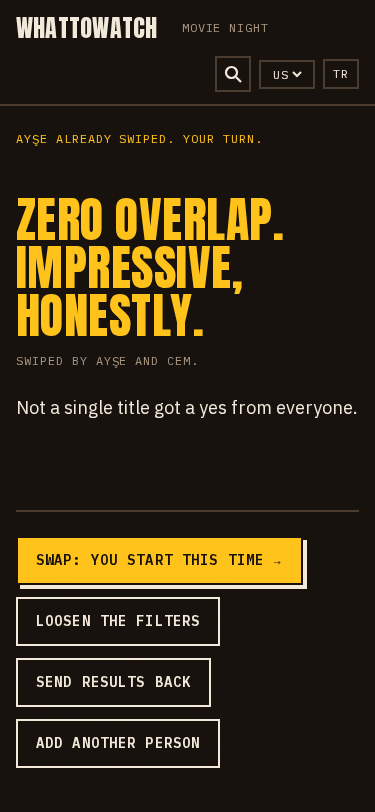
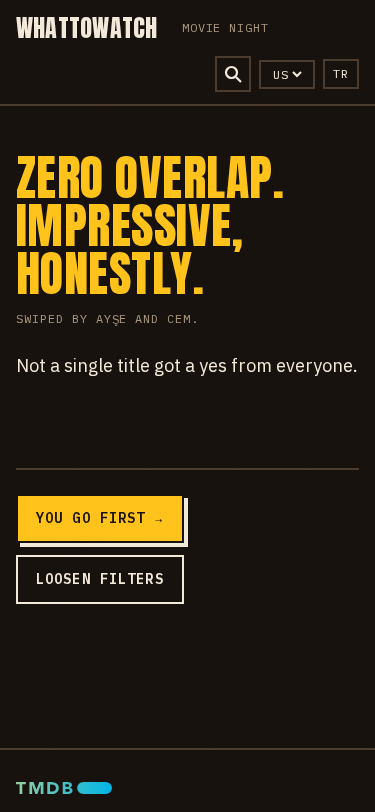
feat: series results and cards on every surface; e2e (g)-(k) and screenshots
Claude-Session: https://claude.ai/code/session_019AAVV8Zh78HYRk7xXT2hzQ

diff --git a/e2e/series.spec.ts b/e2e/series.spec.ts
@@ -1,0 +1,77 @@
+import { expect, test, type Browser } from "@playwright/test";
+import { finalSwipe, person, sitDown, swipe, topCard } from "./helpers";
+
+const BASE = process.env.E2E_BASE_URL ?? "http://localhost:3024";
+
+async function turkish(browser: Browser) {
+  const ctx = await browser.newContext({ locale: "tr-TR" });
+  await ctx.addCookies([{ name: "wtw_lang", value: "tr", url: BASE }, { name: "wtw_region", value: "TR", url: BASE }]);
+  return ctx.newPage();
+}
+
+test("(g) search \"shrek\": one Shrek series card, no separate Shrek 2 or 3", async ({ browser }) => {
+  const p = await person(browser);
+  await p.goto("/search?q=shrek");
+  const grid = p.getByTestId("results-grid");
+  await expect(grid.locator('[data-collection="2150"]')).toHaveCount(1);
+  await expect(grid.locator('[data-collection="2150"]')).toContainText(/\d films · 2001–20\d\d/i);
+  for (const id of [808, 809, 810, 10192]) await expect(grid.locator(`a[href="/title/movie/${id}"]`)).toHaveCount(0);
+});
+
+test("(h) TR, \"yüzüklerin efendisi\": the series card comes first", async ({ browser }) => {
+  const p = await turkish(browser);
+  await p.goto("/search?q=y%C3%BCz%C3%BCklerin%20efendisi");
+  const first = p.getByTestId("search-result").first();
+  await expect(first.getByTestId("collection-card")).toHaveAttribute("data-collection", "119");
+  await expect(first).toContainText(/3 film · 2001–2003/i);
+});
+
+test("(i) two parts on the first page become one card, and never come back later in the deck", async ({ browser }) => {
+  // Fresh link: movies, fantasy, US, seed "abc". Page 0 of this deck holds several Harry Potter films.
+  const token = "AwAAAFVTAAABDANhYmMAAA";
+  const page0 = await (await fetch(`${BASE}/match/api/tmdb/deck?kind=movie&genres=fantasy&region=US&seed=abc&page=0&lang=en`)).json() as { cards: { key: string; title: string; collection?: { parts: { title: string }[] } }[] };
+  const series = page0.cards.filter((c) => c.collection);
+  expect(series.length).toBeGreaterThan(0);
+  const parts = series.flatMap((s) => s.collection!.parts.map((p) => p.title));
+
+  const a = await person(browser);
+  await a.goto(`/match/link?d=${token}`);
+  await sitDown(a, "Ayşe");
+  const seen: string[] = [];
+  for (let n = 0; n < 29; n++) {
+    const title = await topCard(a);
+    if (series.some((s) => s.title === title)) {
+      await a.getByRole("group").first().click(); // tap: what's in the box
+      await expect(a.getByTestId("series-back")).toBeVisible();
+      await expect(a.getByTestId("series-back").locator("li")).toHaveCount(series.find((s) => s.title === title)!.collection!.parts.length);
+      await a.getByRole("group").first().click();
+    }
+    seen.push(await swipe(a, "ArrowLeft"));
+  }
+  seen.push(await finalSwipe(a, "ArrowLeft"));
+  for (const s of series) expect(seen.filter((t) => t === s.title)).toHaveLength(1);
+  for (const part of parts) expect(seen).not.toContain(part);
+  await expect(a.getByText("Not one yes. Tough crowd.")).toBeVisible();
+});
+
+test("(j) a v2 link from before series still opens to its results", async ({ browser }) => {
+  // Encoded by the v2 writer: a finished results link, Ayşe and Burak both liked Forrest Gump (m13) and The Shawshank Redemption (m278).
+  const v2 = "AgEAAFVTAAAACGUyZXYyb2xkCpgR1AG3EuwUsxCozQbM4h-HrCafAegFAgVBecWfZZZqCgVCdXJha1pqCg";
+  const p = await person(browser);
+  await p.goto(`/match/link?d=${v2}`);
+  await expect(p.getByRole("heading", { name: "You both said yes to these." })).toBeVisible();
+  const results = p.getByTestId("result");
+  await expect(results).toHaveCount(2);
+  await expect(results.nth(0)).toContainText("Forrest Gump");
+  await expect(results.nth(1)).toContainText("Shawshank");
+});
+
+test("(k) zero-match results never say \"your turn\", in EN or TR", async ({ browser }) => {
+  const zero = "AwEAAFVTAAAAB2UyZXplcm8K5Bm-AtMboh_NGPzzCfLTL4vCOe8B3AgCBUF5xZ9lpaoKA0NlbZqqCg";
+  for (const [p, heading] of [[await person(browser), "Zero overlap. Impressive, honestly."], [await turkish(browser), "Hiç ortak nokta yok. Takdir ettik açıkçası."]] as const) {
+    await p.goto(`/match/link?d=${zero}`);
+    await expect(p.getByRole("heading", { name: heading })).toBeVisible();
+    await expect(p.locator("body")).not.toContainText(/your turn|sıra sende/i);
+    await expect(p.getByTestId("results").getByRole("button").or(p.getByTestId("results").getByRole("link"))).toHaveCount(2); // a results link has no one left to send to
+  }
+});

diff --git a/e2e/screens.spec.ts b/e2e/screens.spec.ts
@@ -1,0 +1,71 @@
+import { expect, test, type Browser, type Page } from "@playwright/test";
+import { sitDown, swipe, swipeRun, topCard } from "./helpers";
+
+// Screenshots for docs/screens. Not part of the normal run: SCREENS=1 pnpm e2e e2e/screens.spec.ts
+test.skip(!process.env.SCREENS, "screenshots only on request");
+
+const BASE = process.env.E2E_BASE_URL ?? "http://localhost:3024";
+const OUT = "docs/screens";
+const FANTASY = "AwAAAFVTAAABDANhYmMAAA"; // fresh link: movies, fantasy, US, seed "abc"
[1 lines of base64/hex data omitted]
+const ZERO = "AwEAAFVTAAAAB2UyZXplcm8K5Bm-AtMboh_NGPzzCfLTL4vCOe8B3AgCBUF5xZ9lpaoKA0NlbZqqCg";
+
+async function at(browser: Browser, width: number, lang: "en" | "tr", region = "US"): Promise<Page> {
+  const ctx = await browser.newContext({ locale: lang === "tr" ? "tr-TR" : "en-US", viewport: { width, height: width < 500 ? 812 : 900 } });
+  await ctx.addCookies([{ name: "wtw_lang", value: lang, url: BASE }, { name: "wtw_region", value: region, url: BASE }]);
+  return ctx.newPage();
+}
+
+const shot = (p: Page, name: string, width: number, full = false) => p.screenshot({ path: `${OUT}/${name}-${width}.png`, fullPage: full });
+
+for (const width of [375, 1280]) {
+  test(`screens at ${width}`, async ({ browser }) => {
+    const p = await at(browser, width, "en");
+    await p.goto("/");
+    await p.waitForLoadState("networkidle");
+    await shot(p, "landing", width);
+    await p.goto("/search?q=shrek");
+    await expect(p.locator('[data-collection="2150"]').first()).toBeVisible();
+    await p.waitForLoadState("networkidle");
+    await shot(p, "search-shrek", width);
+
+    const tr = await at(browser, width, "tr", "TR");
+    await tr.goto("/search?q=y%C3%BCz%C3%BCklerin%20efendisi");
+    await expect(tr.getByTestId("collection-card").first()).toBeVisible();
+    await tr.waitForLoadState("networkidle");
+    await shot(tr, "search-lotr-tr", width);
+
+    const d = await at(browser, width, "en");
+    await d.goto(`/match/link?d=${FANTASY}`);
+    await sitDown(d, "Ayşe");
+    const page0 = await (await fetch(`${BASE}/match/api/tmdb/deck?kind=movie&genres=fantasy&region=US&seed=abc&page=0&lang=en`)).json() as { cards: { title: string; collection?: unknown }[] };
+    const series = page0.cards.filter((c) => c.collection).map((c) => c.title);
+    for (let n = 0; n < 25 && !series.includes(await topCard(d)); n++) await swipe(d, "ArrowLeft");
+    await expect(d.getByRole("group").first().getByTestId("series-label")).toBeVisible();
+    await d.waitForTimeout(500);
+    await shot(d, "deck-series-front", width);
+    await d.getByRole("group").first().click();
+    await expect(d.getByTestId("series-back")).toBeVisible();
+    await shot(d, "deck-series-back", width);
+
+    const s = await at(browser, width, "en");
+    await s.goto(`/match/link?d=${FANTASY}`);
+    await sitDown(s, "Ayşe");
+    await topCard(s);
+    await swipeRun(s, "LLLNNNNNN");
+    await s.keyboard.press("ArrowLeft");
+    await expect(s.getByTestId("share-screen")).toBeVisible();
+    await shot(s, "share", width);
+
+    const r = await at(browser, width, "en");
+    await r.goto(`/match/link?d=${SERIES_RESULTS}`);
+    await expect(r.getByTestId("start-with")).toBeVisible();
+    await r.waitForLoadState("networkidle");
+    await shot(r, "results-series", width, true);
+
+    const z = await at(browser, width, "en");
+    await z.goto(`/match/link?d=${ZERO}`);
+    await expect(z.getByTestId("results")).toBeVisible();
+    await shot(z, "results-zero", width);
+  });
+}

diff --git a/packages/ui/src/collection-card.tsx b/packages/ui/src/collection-card.tsx
@@ -1,18 +1,18 @@
 import Link from "next/link";
-import { seriesLabel, type CollectionSummary, type Lang, type Provider } from "@wtw/core";
+import { formatRating, seriesLabel, t, type CollectionSummary, type Lang, type Provider } from "@wtw/core";
 import { Poster } from "./poster";
 
 export { seriesLabel } from "@wtw/core";
 
 interface Props {
-  summary: Pick<CollectionSummary, "id" | "name" | "poster" | "partCount" | "yearFrom" | "yearTo">;
+  summary: Pick<CollectionSummary, "id" | "name" | "poster" | "partCount" | "yearFrom" | "yearTo" | "rating">;
   lang: Lang;
   logos?: Provider[];
   /** One short line under the label: "2 of 5 on Netflix", "Has Shrek 2", "Start with: Shrek (2001)". */
   note?: string | null;
   href?: string;
   eager?: boolean;
-  /** Just the box, no name under it (when the name is printed next to it). */
+  /** Just the box: no name or tape label (when both are printed next to it). */
   bare?: boolean;
 }
 
@@ -21,16 +21,18 @@ interface Props {
  * with a second case peeking out behind it, so it never reads as a single title.
  */
 export function CollectionCard({ summary: s, lang, logos = [], note, href, eager = false, bare = false }: Props) {
+  const rating = formatRating(s.rating);
   return (
     <Link href={href ?? `/collection/${s.id}`} className="group block" data-testid="collection-card" data-collection={s.id}>
       <div className="relative mr-1.5 mt-1.5">
         <div className="absolute inset-0 translate-x-1.5 -translate-y-1.5 border-2 border-rule bg-shelf-high" aria-hidden />
         <div className="relative">
           <Poster src={s.poster ? s.poster.replace("/w500/", "/w342/") : null} title={s.name} lang={lang} eager={eager} className="group-hover:border-label" />
-          <span className="sticker absolute bottom-2 left-2 rotate-[-2deg]">{seriesLabel(lang, s)}</span>
+          {!bare && <span className="sticker absolute bottom-2 left-2 rotate-[-2deg] whitespace-nowrap">{t(lang, "series.films", { n: s.partCount })}</span>}
         </div>
       </div>
       {!bare && <p className="mt-2 text-sm leading-tight font-semibold break-words group-hover:text-label">{s.name}</p>}
+      {!bare && <p className="label mt-1 text-[11px] text-paper-dim">{[seriesLabel(lang, s), rating && `${rating}/10`].filter(Boolean).join(" · ")}</p>}
       {note && <p className="label mt-1 text-[11px] text-label">{note}</p>}
       {logos.length > 0 && (
         <span className="mt-2 flex gap-1">

diff --git a/e2e/link-mode.spec.ts b/e2e/link-mode.spec.ts
@@ -27,7 +27,7 @@ test("(b) 3 of 10 shares at once; the friend gets exactly those cards, no pop-up
 
   // Initiator opening their own link: waiting, not a second deck.
   await a.reload();
-  await expect(a.getByText("Your part's done. Waiting on your friend.")).toBeVisible();
+  await expect(a.getByText("Done. Waiting on your friend.")).toBeVisible();
 
   const b = await person(browser);
   await b.goto(link);
@@ -64,8 +64,12 @@ test("(c) zero overlap gets an honest empty state", async ({ browser }) => {
   await swipeRun(b, "NNNLLLLLL");
   await finalSwipe(b, "ArrowRight");
   await expect(b.getByRole("heading", { name: "Zero overlap. Impressive, honestly." })).toBeVisible();
-  await expect(b.getByRole("button", { name: "Swap: you start this time" })).toBeVisible();
-  await expect(b.getByRole("link", { name: "Loosen the filters" })).toBeVisible();
+  await expect(b.getByRole("button", { name: "You go first" })).toBeVisible();
+  await expect(b.getByRole("link", { name: "Loosen filters" })).toBeVisible();
+  await expect(b.getByTestId("send-back")).toHaveCount(0); // behind "More"
+  await expect(b.getByTestId("results")).not.toContainText(/your turn/i);
+  await b.getByTestId("more").click();
+  await expect(b.getByTestId("send-back")).toBeVisible();
 });
 
 test("(d) a v1 link still opens and deals the friend ten cards", async ({ browser }) => {
@@ -81,5 +85,5 @@ test("(d) a v1 link still opens and deals the friend ten cards", async ({ browse
 test("a chewed-up link says so and offers a new night", async ({ page }) => {
   await page.goto("/match/link?d=AgAB");
   await expect(page.getByText("This tape is chewed up.")).toBeVisible();
-  await expect(page.getByRole("link", { name: /Start a movie night/ })).toBeVisible();
+  await expect(page.getByRole("link", { name: /Start movie night/ })).toBeVisible();
 });

diff --git a/packages/core/test/collections.test.ts b/packages/core/test/collections.test.ts
@@ -1,6 +1,6 @@
 import { describe, expect, it } from "vitest";
 import {
-  appendPage, collectionDeckCard, groupIntoCollections, seriesQuery, withNamedSeries, itemHref, itemKey, mapLimit, matchesFromVoters, parseItemKey, settleGroups, toCollectionSummary,
+  appendPage, collectionDeckCard, groupIntoCollections, seriesQuery, withNamedSeries, namesPart, itemHref, itemKey, mapLimit, matchesFromVoters, parseItemKey, settleGroups, toCollectionSummary,
   type CollectionSummary, type DeckCard, type ItemKey, type MediaType, type RawCollection, type SeriesRef, type TitleMeta,
 } from "../src";
 
@@ -166,4 +166,14 @@ describe("search: series named by the query", () => {
   it("nothing named: the list is unchanged", () => {
     expect(withNamedSeries(grouped, [], titles)).toEqual(grouped);
   });
+});
+
+describe("namesPart", () => {
+  it.each([
+    ["shrek 2", "Shrek Collection", "Shrek 2", true],
+    ["shrek", "Shrek Collection", "Shrek 2", false],
+    ["yüzüklerin efendisi", "Yüzüklerin Efendisi [Seri]", "Yüzüklerin Efendisi: İki Kule", false],
+    ["İKİ KULE", "Yüzüklerin Efendisi [Seri]", "Yüzüklerin Efendisi: İki Kule", true],
+    ["matrix", "The Matrix Collection", "The Matrix Reloaded", false],
+  ])("%s / %s / %s", (q, name, part, want) => expect(namesPart(q, name, part)).toBe(want));
 });

diff --git a/apps/web/lib/search.ts b/apps/web/lib/search.ts
@@ -1,6 +1,6 @@
 import "server-only";
 import {
-  browse, collectionSummaries, groupList, seriesQuery, withNamedSeries, isSearchMode, matchingParts, metaPasses, partPasses, searchCollections, searchPages, servicesWanted, summaryPasses,
+  browse, collectionSummaries, groupList, seriesQuery, withNamedSeries, namesPart, isSearchMode, matchingParts, metaPasses, partPasses, searchCollections, searchPages, servicesWanted, summaryPasses,
   type CollectionSummary, type ListItem, type Provider, type SearchFilters, type SearchRun, type SeriesRef, type TitleMeta, type TitleSummary,
 } from "@wtw/core";
 import { metaLoader, tmdb } from "@wtw/ui/server";
@@ -71,7 +71,7 @@ function entryFor(g: ListItem<TitleSummary>, metas: Map<string, TitleMeta>, f: S
   const one = Array.isArray(wanted) && wanted.length === 1 ? wanted[0] : null;
   return [{
     kind: "collection", summary: s, logos: logosFrom(unique, only),
-    hit: first && first.id !== s.parts[0]?.id ? { id: first.id, title: first.title, year: first.year } : null,
+    hit: first && namesPart(f.q, s.name, first.title) ? { id: first.id, title: first.title, year: first.year } : null,
     matching: passing.length < s.partCount ? passing.length : null,
     service: one ? (unique.find((p) => p.id === one)?.name ?? null) : null,
   }];

diff --git a/apps/web/components/result-grid.tsx b/apps/web/components/result-grid.tsx
@@ -29,7 +29,7 @@ export function ResultGrid({ items }: { items: ResultEntry[] }) {
       {items.map((entry, i) => (
         <li key={entry.kind === "title" ? entry.item.key : entry.summary.key} data-testid="search-result">
           {entry.kind === "collection"
-            ? <CollectionCard summary={entry.summary} lang={lang} logos={entry.logos} note={seriesNote(entry, t)} eager={i < 6} />
+            ? <CollectionCard summary={entry.summary} lang={lang} logos={entry.logos} note={seriesNote(entry, t)} eager={i < 6} href={entry.hit ? `/collection/${entry.summary.id}?part=${entry.hit.id}` : undefined} />
             : <TitleCard entry={entry} logos={(entry.logos ?? late[entry.item.key] ?? []).slice(0, 3)} lang={lang} t={t} eager={i < 6} />}
         </li>
       ))}

diff --git a/packages/core/src/collections.ts b/packages/core/src/collections.ts
@@ -179,3 +179,11 @@ export function withNamedSeries<T extends { key: string }>(grouped: readonly Lis
   const firstHit = (g: ListItem<T>) => (g.kind === "collection" && g.hits.length ? Math.min(...g.hits.map((h) => pos.get(h.key) ?? Infinity)) : Infinity);
   return [...lists.filter(isNamed).sort((a, b) => firstHit(a) - firstHit(b)), ...lists.filter((g) => !isNamed(g))];
 }
+
+const fold = (x: string) => x.toLocaleLowerCase("tr").replace(/\s+/g, " ").trim();
+
+/** "Has Shrek 2" is worth a line only when the query names that part and not just the series. */
+export function namesPart(query: string, seriesName: string, partTitle: string): boolean {
+  const q = fold(query);
+  return q.length >= 2 && fold(partTitle).includes(q) && !fold(seriesName).includes(q);
+}

diff --git a/docs/PROGRESS.md b/docs/PROGRESS.md
@@ -95,7 +95,7 @@ Plan: Git connection first so every push gets a real Vercel build; then core (it
 - [x] 3. Core: item-key, collections grouping, codec v3 (tests)
 - [x] 4. Cached movie-meta loader; search and deck use it
 - [x] 5. Search, suggestions, collection page
-- [ ] 6. Deck (link, live, mobile) and results
+- [x] 6. Deck (link, live, mobile) and results
 - [x] 7. Copy diet, COPY.md, results kicker bug
 - [ ] 8. Verify, screenshots, merge, production READY
 
@@ -113,3 +113,6 @@ Plan: Git connection first so every push gets a real Vercel build; then core (it
 - Step 5: TMDB's TR names are its own ("Şrek Koleksiyonu", "Yüzüklerin Efendisi [Seri]"); we show them as given rather than rewrite them to "… Serisi".
 - Step 5: unreleased parts are excluded from counts and years: Shrek shows `4 FILMS · 2001–2010` (Shrek 5, 2027, left out).
 - Step 7: 22 unused keys deleted (the old match pop-up and shortlist copy, among others). Zero-match results show 2 buttons plus a "More" text link. The share and waiting screens are one component with a headline and one line, and the picky/shelf note replaces the line instead of stacking on it. A copy test checks buttons are ≤3 words in both languages and that "your turn" lives only in `link.yourTurn`. The brief's example "You start this time" is 4 words, so the button is "You go first" / "Sen başla". Table in `docs/COPY.md`.
+- Step 6: link mode (initiator and friend), live rooms (server deal) and mobile all get series cards from the same `buildDeckPage`, and fixed decks load any `c:` key through the `cards` route. The friend's fixed deck now starts for any link that carries a deck (v2 or v3), not only v2. The series card front shows the poster with a `N FILMS · years` sticker, and tapping flips it to the numbered parts list (web `card-face.tsx`, mobile `series-face.tsx`). Results show "Start with: …" and link to `/collection/[id]`.
+- Step 6: the search grid card shows only the film count on the poster sticker; the full `N FILMS · years · rating` sits under the name, because a full label on a 150px poster truncated. The "Has Shrek 2" note only shows when the query names that part and not the series (`namesPart`).
+- Step 8 (e2e): new `e2e/series.spec.ts` (g)–(k). (i) swipes 30 cards of the fantasy deck (seed "abc", which holds the Harry Potter and Super Mario series on page 0) and checks each series appears once and none of its parts ever do. `e2e/screens.spec.ts` takes the docs screenshots when `SCREENS=1`.
